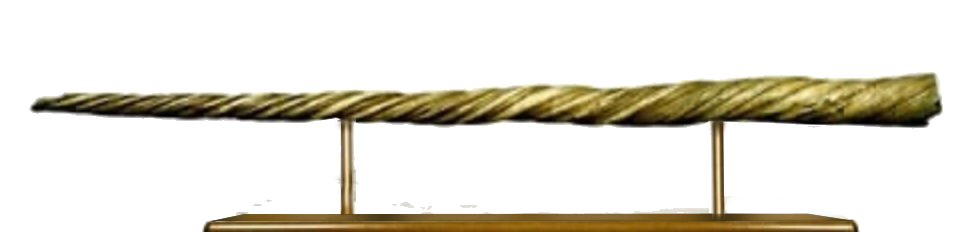
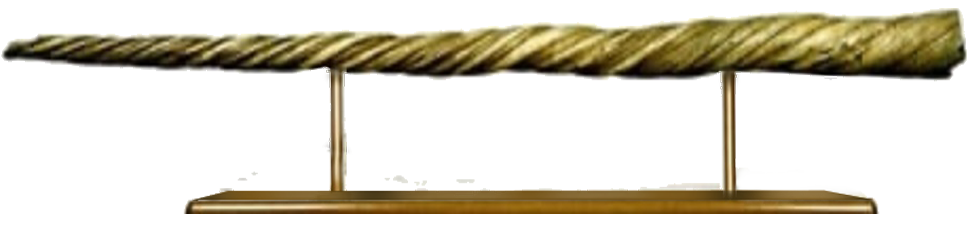
yep

diff --git a/index.html b/index.html
@@ -448,6 +448,13 @@ input, textarea { -webkit-user-select: text; user-select: text; }  /* keep any t
   box-shadow: 0 6px 20px rgba(0,0,0,0.95);
   z-index: 50 !important;
 }
+.held-card-peek {
+  filter: brightness(0.75);
+  box-shadow: 0 2px 6px rgba(0,0,0,0.7);
+}
+.held-card-peek:hover {
+  box-shadow: 0 2px 6px rgba(0,0,0,0.7); /* no hover response — belongs to the front card */
+}
 
 /* Singular-item cards going dead: three distinct moments, three distinct feels. */
 .card-rise-fade {
@@ -9774,21 +9781,54 @@ function renderHeldCards(playerIdx) {
   // Only non-retained cards go in the fan hand
   const cards  = (players[playerIdx].heldCards || []).filter(hc => !isRetainedCard(hc));
   const isOwner = playerIdx === currentPIdx; // owner sees face up
-  const count  = cards.length;
-  const spread = Math.min(18, 80 / Math.max(count, 1)); // px between cards
+
+  // Group duplicates (same card art) so they share one fan slot — extra copies
+  // stack behind the front card rather than each claiming their own spread
+  // position, which is what made the fan balloon out after a while.
+  const groups = [];
+  const groupByImg = new Map();
+  cards.forEach(hc => {
+    let g = groupByImg.get(hc.img);
+    if (!g) { g = []; groupByImg.set(hc.img, g); groups.push(g); }
+    g.push(hc);
+  });
+
+  const count  = groups.length;
+  const spread = Math.min(18, 80 / Math.max(count, 1)); // px between fan slots
   const totalW = count > 1 ? spread * (count - 1) + 62 : 62;
 
   container.style.width  = totalW + 'px';
   container.style.height = '190px';
 
-  cards.forEach((hc, i) => {
+  groups.forEach((group, i) => {
+    const offset = i * spread;
+    const rot    = count > 1 ? (i - (count-1)/2) * 3 : 0;
+
+    // Extra copies of this same card, stacked just behind the front one —
+    // small peeking offset, lower z-index, not interactive (the front card
+    // represents the whole stack).
+    for (let d = group.length - 1; d >= 1; d--) {
+      const peek = document.createElement('div');
+      peek.className = 'held-card held-card-peek';
+      peek.style.left      = (offset - d * 2) + 'px';
+      peek.style.bottom    = (d * 11) + 'px';
+      peek.style.zIndex    = 10 + i;
+      peek.style.transform = `rotate(${rot}deg)`;
+      peek.style.pointerEvents = 'none';
+      const peekImg = document.createElement('img');
+      const ownerIsAI = (typeof aiPlayers !== 'undefined' && aiPlayers && aiPlayers[playerIdx]);
+      const showFace = (isOwner && !ownerIsAI) || group[d].alwaysFaceUp;
+      peekImg.src = showFace ? group[d].img : 'images/img-card-back.jpg';
+      peek.appendChild(peekImg);
+      container.appendChild(peek);
+    }
+
+    const hc = group[0];
     const el = document.createElement('div');
     el.className = 'held-card';
     el.dataset.cardId = hc.id;
-    const offset = i * spread;
-    const rot    = count > 1 ? (i - (count-1)/2) * 3 : 0;
     el.style.left      = offset + 'px';
-    el.style.zIndex    = 10 + i;
+    el.style.zIndex    = 10 + i + group.length; // stays above its own peeking duplicates
     el.style.transform = `rotate(${rot}deg)`;
     el.style.bottom    = '0';
 
@@ -9858,54 +9898,54 @@ function closeHeldDetail() {
 // ════════════════════════════════════════════════
 const OPPORTUNITY_CARDS = [
   // ── Amethyst geode ×2 — Minas Gerais, 8 ingots ──
-  ...Array(2).fill({ img:'images/op-amethyst2.jpeg',         label:'Amethyst Geode',        location:'Minas Gerais',      price:8,  currency:'ingots' }),
+  ...Array(2).fill(null).map(()=>({ img:'images/op-amethyst2.jpeg',         label:'Amethyst Geode',        location:'Minas Gerais',      price:8,  currency:'ingots' })),
   // ── Dragon vase workshop ×3 — Hangzhou, 5 ingots ──
-  ...Array(2).fill({ img:'images/op-dragonvaseworkshop.jpeg', label:'Dragon Vase',           location:'Foshan',            price:5,  currency:'ingots', note:'The kiln master also wants a rare cobalt pigment sample' }),
+  ...Array(2).fill(null).map(()=>({ img:'images/op-dragonvaseworkshop.jpeg', label:'Dragon Vase',           location:'Foshan',            price:5,  currency:'ingots', note:'The kiln master also wants a rare cobalt pigment sample' })),
   // ── Nuremberg model maker ×2 — Nuremberg, 5 ingots ──
   // Central Sierras apatite miner ×3 — one op card per crystal available
-  ...Array(3).fill({ img:'images/op-apetite-miner.jpeg', label:'Apatite Miner — Central Sierras', location:'Central Sierras', price:4, currency:'ingots', note:'Journey east of Lisbon — asparagus stone awaits' }),
+  ...Array(3).fill(null).map(()=>({ img:'images/op-apetite-miner.jpeg', label:'Apatite Miner — Central Sierras', location:'Central Sierras', price:4, currency:'ingots', note:'Journey east of Lisbon — asparagus stone awaits' })),
   // Nuremberg model maker ×3 — one per model, player gets random version on purchase
-  ...Array(3).fill({ img:'images/op-nurembergModel.jpeg', label:'Nuremberg Geometric Model', location:'Nuremberg', price:5, currency:'ingots' }),
+  ...Array(3).fill(null).map(()=>({ img:'images/op-nurembergModel.jpeg', label:'Nuremberg Geometric Model', location:'Nuremberg', price:5, currency:'ingots' })),
   // ── Lapidary ×3 — Amsterdam, variable pricing ──
-  ...Array(3).fill({ img:'images/op-lapidary.jpeg',          label:'Lapidary — Nautilus Work', location:'Amsterdam',       price:1,  currency:'ingots', note:'Peeled 1 ingot / Bisected 3 ingots' }),
+  ...Array(3).fill(null).map(()=>({ img:'images/op-lapidary.jpeg',          label:'Lapidary — Nautilus Work', location:'Amsterdam',       price:1,  currency:'ingots', note:'Peeled 1 ingot / Bisected 3 ingots' })),
   // ── Silversmith ×2 — Delft, 4 ingots ──
-  ...Array(4).fill({ img:'images/op-silvermith.jpeg',        label:'Silversmith Mount',     location:'Delft',             price:4,  currency:'ingots' }),
+  ...Array(4).fill(null).map(()=>({ img:'images/op-silvermith.jpeg',        label:'Silversmith Mount',     location:'Delft',             price:4,  currency:'ingots' })),
   // ── Tourmaline ×1 — Ratnapura, 10 ingots ──
-  ...Array(2).fill({ img:'images/op-tourmaline.jpeg',        label:'Rainbow Tourmaline',    location:'Ratnapura',         price:10, currency:'ingots', note:'The miner also wants a fine Quadrant in trade' }),
+  ...Array(2).fill(null).map(()=>({ img:'images/op-tourmaline.jpeg',        label:'Rainbow Tourmaline',    location:'Ratnapura',         price:10, currency:'ingots', note:'The miner also wants a fine Quadrant in trade' })),
   // ── Batavia sea shells ×4 — Batavia, 3 coins each ──
-  ...Array(7).fill({ img:'images/op-seashells.jpeg',         label:'Batavia Sea Shells',    location:'Batavia',           price:3,  currency:'coins' }),
+  ...Array(7).fill(null).map(()=>({ img:'images/op-seashells.jpeg',         label:'Batavia Sea Shells',    location:'Batavia',           price:3,  currency:'coins' })),
   // ── White sea fan coral ×3 — Abrolhos (label TBC) ──
-  ...Array(3).fill({ img:'images/op-seafandiver.jpeg',       label:'White Sea Fan Coral',   location:'Abrolhos',          price:0,  currency:'coins', note:'Label coming — free to collector' }),
+  ...Array(3).fill(null).map(()=>({ img:'images/op-seafandiver.jpeg',       label:'White Sea Fan Coral',   location:'Abrolhos',          price:0,  currency:'coins', note:'Label coming — free to collector' })),
   // ── Goto red coral ×1 — UNIQUE, discarded after use, Goto Islands, 12 ingots ──
-  ...Array(2).fill({ img:'images/coral_copy.jpeg', label:'Red Precious Coral', location:'Goto Islands', dest:'Goto Islands', price:12, currency:'ingots', note:'A Nagasaki fisherman will meet you in the hidden Goto sea caves — he also wants a fine Telescope in trade.' }),
+  ...Array(2).fill(null).map(()=>({ img:'images/coral_copy.jpeg', label:'Red Precious Coral', location:'Goto Islands', dest:'Goto Islands', price:12, currency:'ingots', note:'A Nagasaki fisherman will meet you in the hidden Goto sea caves — he also wants a fine Telescope in trade.' })),
   // ── Tree Agate ×2 — Dahel Gorge (inland from Bombay), 8 ingots per half ──
   // Two cards for one nodule: hold both to claim the matched pair; one card = one half.
-  ...Array(2).fill({ img:'images/op-treeagate.jpeg', label:'Tree Agate — Dahel Gorge', location:'Dahel Gorge', dest:'Dahel Gorge', price:8, currency:'ingots', note:'A tribal miner inland from Bombay — each card claims one mirrored half.' }),
+  ...Array(2).fill(null).map(()=>({ img:'images/op-treeagate.jpeg', label:'Tree Agate — Dahel Gorge', location:'Dahel Gorge', dest:'Dahel Gorge', price:8, currency:'ingots', note:'A tribal miner inland from Bombay — each card claims one mirrored half.' })),
   // ── Cambay mother-of-pearl casket ×1 — UNIQUE: the guild master's final, secret work ──
-  ...Array(2).fill({ img:'images/op-motherofpearlcasket.jpeg', label:'Mother-of-Pearl Casket — Cambay', location:'Cambay', dest:'Cambay', price:25, currency:'ingots', note:'The last surviving master of the Cambay guild — his final, secret casket. He also wants a peeled nautilus. Only one exists.' }),
+  ...Array(2).fill(null).map(()=>({ img:'images/op-motherofpearlcasket.jpeg', label:'Mother-of-Pearl Casket — Cambay', location:'Cambay', dest:'Cambay', price:25, currency:'ingots', note:'The last surviving master of the Cambay guild — his final, secret casket. He also wants a peeled nautilus. Only one exists.' })),
   // ── Nautilus shell ×3 — Ancol, 5 coins ──
-  ...Array(3).fill({ img:'images/op-nautilusdiver.jpeg',     label:'Nautilus Shell',        location:'Ancol',             price:5,  currency:'coins' }),
+  ...Array(3).fill(null).map(()=>({ img:'images/op-nautilusdiver.jpeg',     label:'Nautilus Shell',        location:'Ancol',             price:5,  currency:'coins' })),
   // ── Violet sea shells ×5 — Praia do Guincho, 5 coins ──
-  ...Array(3).fill({ img:'images/op-violetseasnail.jpeg',    label:'Violet Sea Shells',     location:'Praia do Guincho',  price:5,  currency:'coins' }),
+  ...Array(3).fill(null).map(()=>({ img:'images/op-violetseasnail.jpeg',    label:'Violet Sea Shells',     location:'Praia do Guincho',  price:5,  currency:'coins' })),
   // ── Apatite ×3 — Central Sierras (single entry — duplicated above, remove) ──
   // ── Imperial Topaz ×1 — Minas Gerais, 12 ingots ──
-  ...Array(2).fill({ img:'images/op-imperialtopaz.jpeg',      label:'Imperial Topaz — Ouro Preto', location:'Ouro Preto', price:12, currency:'ingots' }),
+  ...Array(2).fill(null).map(()=>({ img:'images/op-imperialtopaz.jpeg',      label:'Imperial Topaz — Ouro Preto', location:'Ouro Preto', price:12, currency:'ingots' })),
   // ── Blue Moonstone ×1 — Meetiyagoda, 3 ingots ──
-  ...Array(3).fill({ img:'images/op-moonstone_copy.jpeg',    label:'Blue Moonstone',        location:'Meetiyagoda',       price:3,  currency:'ingots' }),
+  ...Array(3).fill(null).map(()=>({ img:'images/op-moonstone_copy.jpeg',    label:'Blue Moonstone',        location:'Meetiyagoda',       price:3,  currency:'ingots' })),
   // ── Jade Puzzle Ball ×1 — White Cloud Mountain, 8 ingots + telescope ──
-  ...Array(2).fill({ img:'images/puzzleball.jpeg', label:'Jade Puzzle Ball — Master Carver', location:'White Cloud Mountain', price:0, currency:'ingots', note:'8 ingots + Geometric Model required' }),
+  ...Array(2).fill(null).map(()=>({ img:'images/puzzleball.jpeg', label:'Jade Puzzle Ball — Master Carver', location:'White Cloud Mountain', price:0, currency:'ingots', note:'8 ingots + Geometric Model required' })),
   // ── Anatomical Ceroplastic Torso ×1 — Amsterdam, 20 ingots ──
   { img:'images/connection1.jpg', label:'Anatomical Ceroplastic Torso — Italian States', location:'Amsterdam', price:20, currency:'ingots', note:'20 ingots • arrives by special shipment' },
   // ── Ruby Crystal ×3 — Kongu Nadu, 12 ingots ──
-  ...Array(3).fill({ img:'images/op-rubyminer.jpeg', label:'Raw Ruby Crystal', location:'Kongu Nadu', price:12, currency:'ingots' }),
+  ...Array(3).fill(null).map(()=>({ img:'images/op-rubyminer.jpeg', label:'Raw Ruby Crystal', location:'Kongu Nadu', price:12, currency:'ingots' })),
   // ── Raw Cobalt Sample ×3 — Cornwall, 1 ingot ──
-  ...Array(3).fill({ img:'images/op-cobaltminer.jpg', label:'Raw Cobalt Sample', location:'Cornwall', price:1, currency:'ingots' }),
+  ...Array(3).fill(null).map(()=>({ img:'images/op-cobaltminer.jpg', label:'Raw Cobalt Sample', location:'Cornwall', price:1, currency:'ingots' })),
   // ── Netti Carver ×3 — Poonamallee, 6 ingots ──
-  ...Array(3).fill({ img:'images/op-netticarver.jpeg', label:'Pith-Root Carving', location:'Poonamallee', price:6, currency:'ingots' }),
+  ...Array(3).fill(null).map(()=>({ img:'images/op-netticarver.jpeg', label:'Pith-Root Carving', location:'Poonamallee', price:6, currency:'ingots' })),
   // ── Mandrake Root x4 — Caramujeira, 3 ingots (one per card held) ──
-  ...Array(4).fill({ img:'images/op-mandrake.jpeg', label:'Mandrake Root', location:'Caramujeira', price:3, currency:'ingots' }),
+  ...Array(4).fill(null).map(()=>({ img:'images/op-mandrake.jpeg', label:'Mandrake Root', location:'Caramujeira', price:3, currency:'ingots' })),
   // ── Brain Coral x1 — False Bay, 3 ingots (a once-in-a-lifetime find) ──
-  ...Array(2).fill({ img:'images/op-braincoral.jpeg', label:'Brain Coral', location:'False Bay', price:3, currency:'ingots', note:'The collector\u2019s agent here also wants a fine pocket watch' }),
+  ...Array(2).fill(null).map(()=>({ img:'images/op-braincoral.jpeg', label:'Brain Coral', location:'False Bay', price:3, currency:'ingots', note:'The collector\u2019s agent here also wants a fine pocket watch' })),
 ].map((c, i) => ({ ...c, _id: i }));
 
 let oppDeck      = [];
